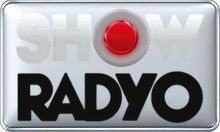
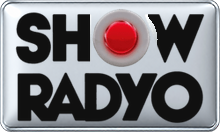
Apply manual WHITE picon corrections for cases 10943 and 4926

Changed region(s): [[0.0545, 0.0909, 0.4091, 0.4848], [0.6545, 0.0909, 0.9273, 0.4848]]

diff --git a/docs/PROJECT-CHECKPOINT.md b/docs/PROJECT-CHECKPOINT.md
@@ -20,6 +20,7 @@ This dated status supersedes older immediate-resume instructions in the historic
[4 lines of base64/hex data omitted]
 - Next gate: continue isolated V10 regression work on the test branch; ambiguous or unsafe samples remain REVIEW. The failed component-mask prototype is not approved, and full-catalog rebuild still requires successful isolated regression evidence and an explicitly approved production path.
 - Do not repeat the visual review or regeneration of Batches 1–13. Continue the Phase 4 V10 workflow on the isolated test branch using the approved records and existing V10 test specification.
 

diff --git a/reports/warder-master-production/phase4-v10-experiment-20260925/ADJACENCY-GUARD-P1-24-CASE-SCREEN.md b/reports/warder-master-production/phase4-v10-experiment-20260925/ADJACENCY-GUARD-P1-24-CASE-SCREEN.md
@@ -17,7 +17,10 @@ All 24 cases remained REVIEW. The unchanged PASS control stayed PASS with zero c
 - **#13015** — REVIEW, 8 unsafe components touching protected chromatic artwork or two-tone regions; the V10 candidate differs in 6,178 pixels. Štefan requested a manual correction to the middle/current output: the second glyph's white dot and stem were made black where they meet the globe. The exact corrected output was generated from the original transparent source and frozen WHITE MASTER; chromatic orange pixels and source alpha were preserved.
 - **#1856** — REVIEW, 6 unsafe components touching protected chromatic artwork or two-tone regions; the V10 candidate differs in 7,009 pixels. Štefan selected the middle-column CURRENT output, retained unchanged.
 
-The user's later manual approvals for #10085 and #6019 supersede the initial visual assessment; both exact candidates are applied with case-level audit. #6216 remains REVIEW automatically; Štefan selected the exact right-hand V10 candidate, which is manually approved and applied on the test branch. #14408 remains REVIEW automatically; Štefan selected the middle-column CURRENT output, so it is retained unchanged. This is case-level manual visual selection, not approval of the algorithm. The automatic classifier still reports REVIEW for #10085 and #6019; these are manual approvals of two exact outputs, not approval of the algorithm. Štefan also selected the exact right-hand candidates for #6099 and #7191; both are manually approved and applied on the isolated test branch. #13015 remains REVIEW automatically after its user-directed case-level correction; #1856 remains REVIEW and unchanged. #14408 also remains on its middle/current output. These are case-specific decisions only.
+The user's later manual approvals for #10085 and #6019 supersede the initial visual assessment; both exact candidates are applied with case-level audit. #6216 remains REVIEW automatically; Štefan selected the exact right-hand V10 candidate, which is manually approved and applied on the test branch. #14408 remains REVIEW automatically; Štefan selected the middle-column CURRENT output, so it is retained unchanged. This is case-level manual visual selection, not approval of the algorithm. The automatic classifier still reports REVIEW for #10085 and #6019; these are manual approvals of two exact outputs, not approval of the algorithm. Štefan also selected the exact right-hand candidates for #6099 and #7191; both are manually approved and applied on the isolated test branch. #13015 remains REVIEW automatically after its user-directed case-level correction; #1856 remains REVIEW and unchanged. #14408 also remains on its middle/current output. These are case-specific decisions only. #10943 and #4926 also remain REVIEW automatically after their user-directed, case-level manual corrections. For #10943 only the upper `SHOW` letters were made black and the central red `O`/button was left untouched; for #4926 only the last `L` of `CHANNEL` was made black. Their manual records and focused comparisons are `CASE-10943-4926-MANUAL-DECISIONS.md` / `.csv`, `CASE-10943-MANUAL-CORRECTION.jpg`, and `CASE-4926-MANUAL-CORRECTION.jpg`.
+
+- **#10943** — REVIEW; Štefan requested black upper `SHOW` letters while preserving the central red `O`/button. The exact corrected WHITE output was generated from the original transparent source with the frozen V9 fit/render and WHITE MASTER; source alpha and chromatic pixels remain unchanged.
+- **#4926** — REVIEW; Štefan requested the final `L` of the lower `CHANNEL` word in black. Only that letter was recolored from its original transparent source; source alpha and chromatic pixels remain unchanged.
 
 ## Audit and previews
 

diff --git a/reports/warder-master-production/phase4-v10-experiment-20260925/CASE-10943-4926-MANUAL-DECISIONS.md b/reports/warder-master-production/phase4-v10-experiment-20260925/CASE-10943-4926-MANUAL-DECISIONS.md
@@ -1,0 +1,15 @@
+# V10 manual corrections — cases #10943 and #4926
+
+Date: 2026-09-25  
+Branch: `phase4-v10-component-mask-test`
+
+Štefan requested these exact case-level edits to the WHITE outputs:
+
+| Case | Manual edit | Previous/current WHITE SHA256 | Result WHITE SHA256 | Automatic status |
+|---|---|---|---|---|
[2 lines of base64/hex data omitted]
+
+Both edits were regenerated from each case's own original transparent source using the frozen V9 fit/render and exact WHITE MASTER; the reconstructed baseline matched the previous/current output. #10943 recolored 4,929 achromatic source pixels in `SHOW` (4,804 output pixels differ from the prior output); the central red `O`/button and all source chromatic pixels were preserved. #4926 recolored 302 source pixels in the last `L` only (278 output pixels differ); source alpha and chromatic pixels were preserved. #7564 shares #4926's transparent-source SHA256 but was not changed by this decision.
+
+Focused comparisons: `CASE-10943-MANUAL-CORRECTION.jpg` and `CASE-4926-MANUAL-CORRECTION.jpg` show the current output beside the corrected result. These manual edits do not change automatic status, approve the algorithm, or authorize a production rebuild.
